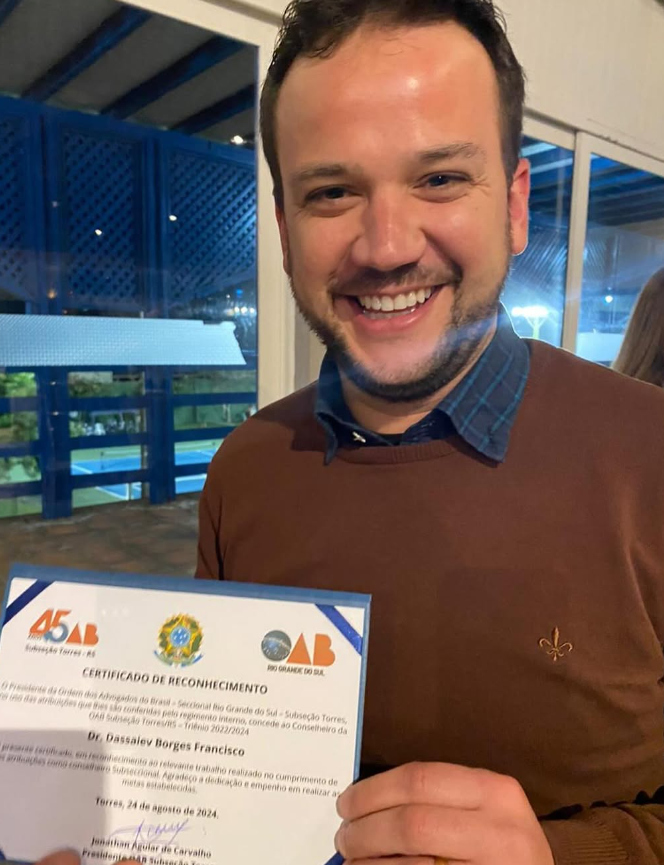
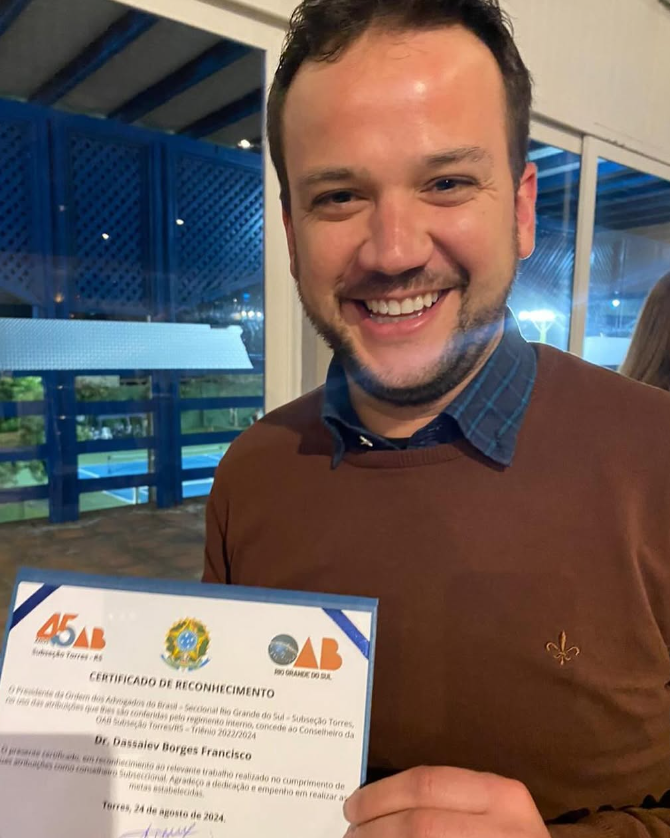
fix(framing): perfect portrait framing for Dr. Dassaiev hero and OAB certificate photo, relocate google badge to right side

diff --git a/assets/css/styles.css b/assets/css/styles.css
@@ -592,8 +592,9 @@ body.arc-backdrop {
 
 .floating-google-badge {
   position: absolute;
-  top: 22px;
-  left: -22px;
+  top: 24px;
+  right: -20px;
+  left: auto;
   z-index: 4;
   background: rgba(24, 26, 34, 0.94);
   backdrop-filter: blur(10px);
@@ -974,12 +975,24 @@ body.arc-backdrop {
   border: 1px solid var(--bronze-border);
   background: var(--bg-obsidian);
   box-shadow: var(--shadow-sm);
+  display: flex;
+  flex-direction: column;
 }
 
 .about-photo-sub img {
   width: 100%;
-  height: 230px;
+  height: auto;
   object-fit: cover;
+  object-position: center top;
+  display: block;
+}
+
+.about-photo-cert img {
+  aspect-ratio: 4 / 3;
+}
+
+.about-photo-portrait img {
+  aspect-ratio: 4 / 4.9;
 }
 
 .about-photo-sub figcaption {
@@ -2007,7 +2020,16 @@ textarea.form-control {
   }
 
   .about-photo-sub img {
-    height: 180px;
+    height: auto;
+  }
+
+  .about-photo-cert img {
+    aspect-ratio: 16 / 11;
+  }
+
+  .about-photo-portrait img {
+    aspect-ratio: 4 / 4.9;
+    object-position: center top;
   }
 
   .credentials-box {

diff --git a/index.html b/index.html
@@ -818,7 +818,7 @@
             />
           </figure>
 
-          <figure class="about-photo-sub">
+          <figure class="about-photo-sub about-photo-cert">
             <img
               src="assets/img/certificado-oab-torres.png"
               alt="Certificado de Reconhecimento da OAB Rio Grande do Sul Subseção Torres concedido ao Conselheiro Dr. Dassaiev Borges Francisco (Triênio 2022/2024)"
@@ -830,12 +830,12 @@
             <figcaption>Certificado Oficial OAB/RS Subseção Torres — Conselheiro 2022/2024</figcaption>
           </figure>
 
-          <figure class="about-photo-sub">
+          <figure class="about-photo-sub about-photo-portrait">
             <img
               src="assets/img/dr-dassaiev-oab.png"
               alt="Dr. Dassaiev Borges Francisco recebendo o Certificado de Reconhecimento da OAB Subseção Torres/RS"
-              width="664"
-              height="865"
+              width="670"
+              height="838"
               loading="lazy"
               decoding="async"
             />
